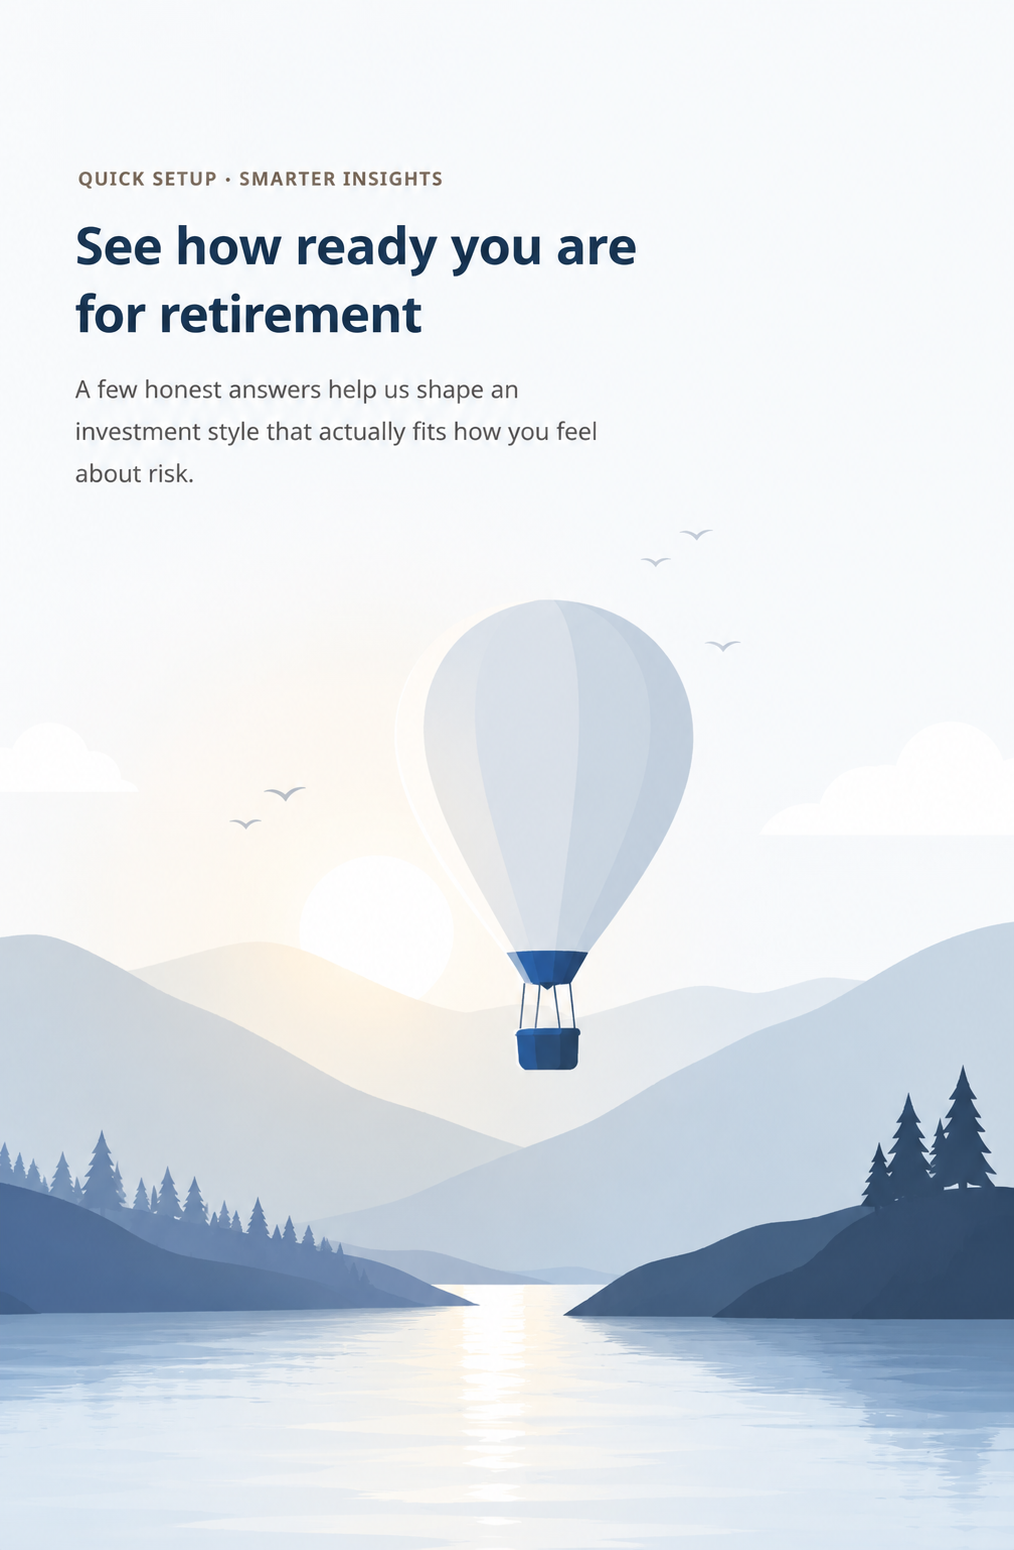
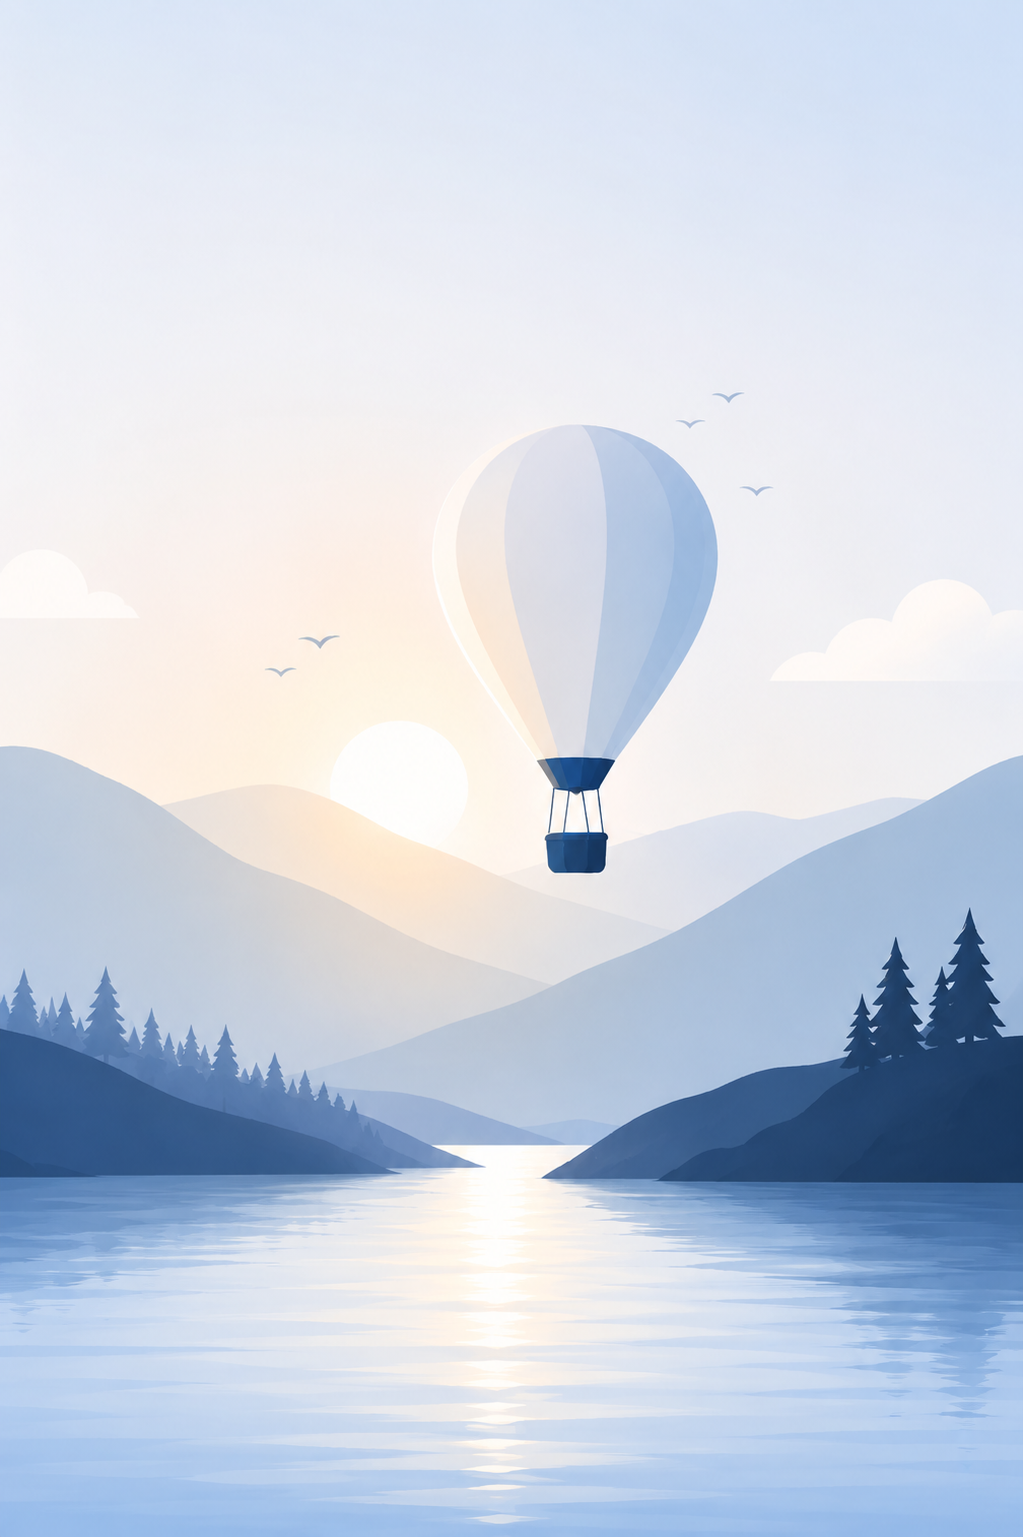
Swap to the text-free reference image, overlay app copy on top
Replaces public/risk-questionnaire-scene.png with the version that
has no heading/body text baked in, so the app's own per-step copy
(tag/h1/p) can be layered on top of it instead of duplicating or
being replaced by static text embedded in the picture. The image
fills the panel edge to edge (object-fit: cover) behind the copy;
the copy is what actually varies per step, the image never does.

diff --git a/src/styles/riskQuestionnaire.css b/src/styles/riskQuestionnaire.css
@@ -3,11 +3,17 @@
 .rqp-side{
   position:relative;overflow:hidden;background:var(--scene-sky);min-height:100vh}
 
-/* Static reference image, reused unchanged across every questionnaire step.
-   object-fit:contain so the full picture (including its own baked-in
-   heading text) always stays inside the panel instead of being cropped —
-   cover was cutting the left-edge text off at narrower panel widths. */
-.rqj-scene{position:absolute;inset:0;width:100%;height:100%;object-fit:contain;display:block}
+/* Static reference image (no text baked in), reused unchanged across every
+   questionnaire step — fills the panel edge to edge behind the copy below. */
+.rqj-scene{position:absolute;inset:0;width:100%;height:100%;object-fit:cover;display:block}
+
+/* App-owned copy overlaid on top of the image — this is what actually
+   varies per step; the image itself never changes. */
+.rqp-side-copy{
+  position:relative;z-index:1;max-width:34ch;padding:44px 40px 0}
+.rqp-side-tag{display:block;font-size:11px;font-weight:800;letter-spacing:.5px;text-transform:uppercase;color:var(--amber);margin-bottom:10px}
+.rqp-side-copy h1{font-size:26px;font-weight:800;line-height:1.25;letter-spacing:-.3px;margin:0 0 12px;color:var(--brand-dark)}
+.rqp-side-copy p{font-size:14px;line-height:1.6;color:var(--ink-soft);margin:0}
 
 .rqp-main{display:flex;flex-direction:column;padding:36px 48px;max-width:760px;width:100%;margin:0 auto}
 .rqp-main-head{display:flex;align-items:center;gap:16px;margin-bottom:34px}

diff --git a/src/pages/RiskQuestionnaire.jsx b/src/pages/RiskQuestionnaire.jsx
@@ -82,6 +82,11 @@ export default function RiskQuestionnaire() {
     <div className="rqp-page">
       <aside className="rqp-side" aria-hidden="true">
         <RiskJourneyScene />
+        <div className="rqp-side-copy">
+          <span className="rqp-side-tag">Quick Setup · Smarter Insights</span>
+          <h1>See how ready you are for retirement</h1>
+          <p>A few honest answers help us shape an investment style that actually fits how you feel about risk.</p>
+        </div>
       </aside>
 
       <main className="rqp-main">
